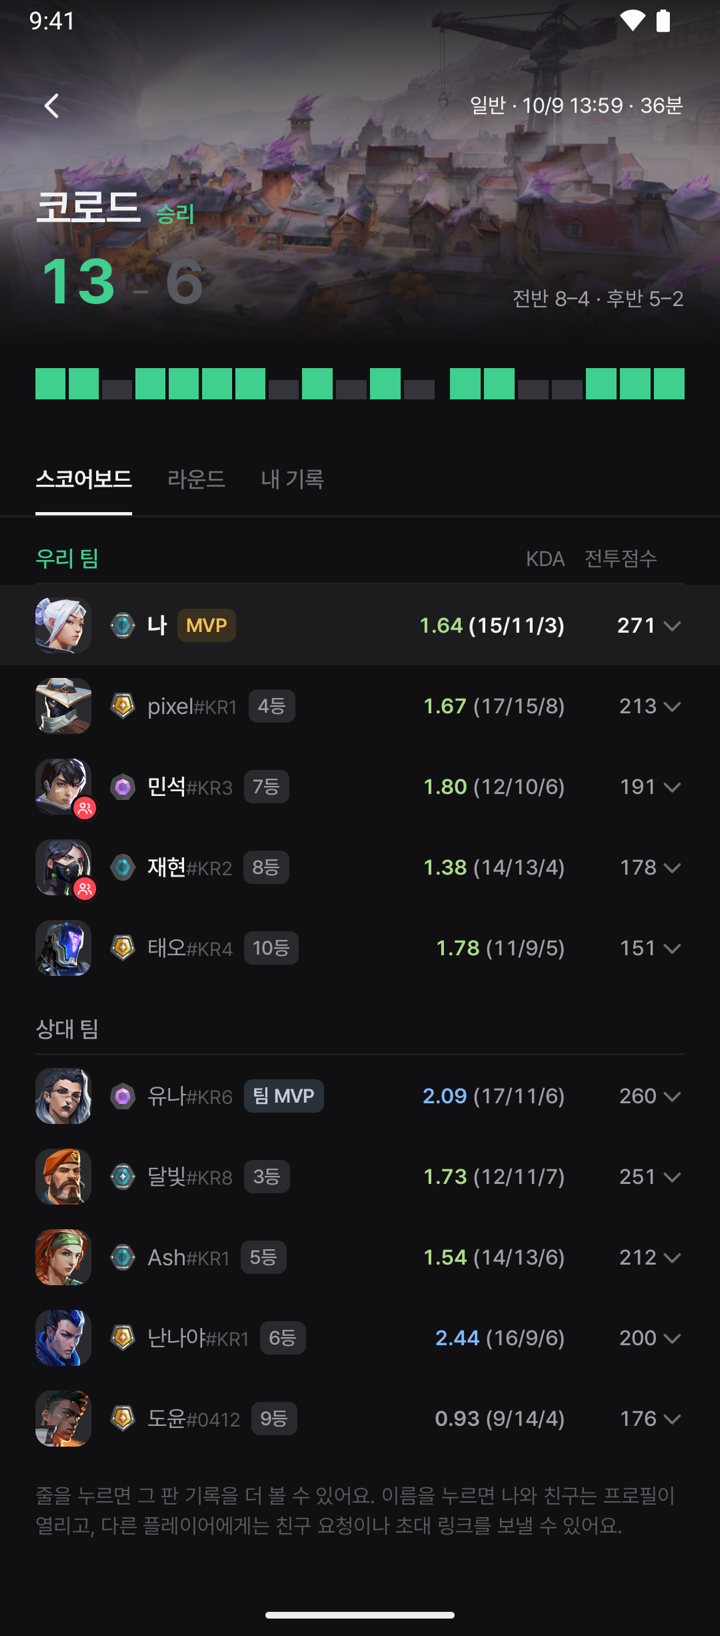
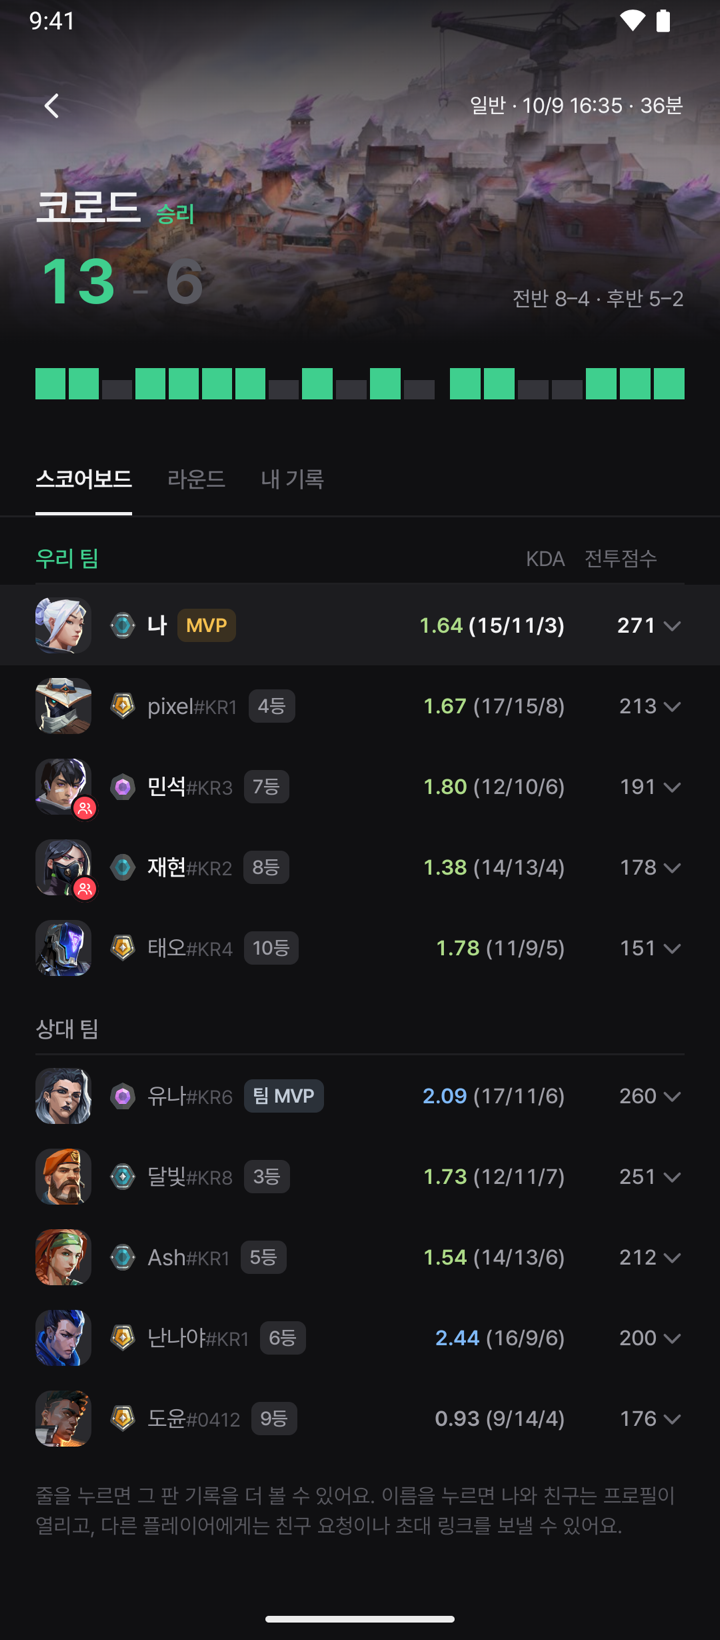
docs: PRD 추가
밖에서 처음 보는 사람이 읽는 제품 문서다. 왜 만드는지, 누가 언제 쓰는지,
화면마다 무엇을 하는지, "달라졌다"를 어떻게 정하는지, 하지 않는 것(Riot
정책), 개인정보, 성공 기준, 범위와 순서, 아직 정하지 못한 것을 적는다.
규칙의 기준은 CLAUDE.md와 screens.md이고 PRD는 그쪽으로 이어 준다.

GitHub에서 바로 읽히게 Markdown으로 쓰고 실제 앱 캡처를 넣었다. 클릭형
프로토타입(docs/prototype)은 GitHub Pages로 연다.

함께 바꾼 캡처: 홈(짚을 점 한 줄 두 칸), 흐름 시트와 라운드 탭(문구 수정),
경기 상세 세 탭과 경기 목록(같은 시각으로 다시 찍음).

diff --git a/docs/PRD.md b/docs/PRD.md
@@ -1,0 +1,226 @@
+# 오발있
+
+발로란트를 하고 나서 "이번 주는 왜 이렇게 안 풀렸지" 싶을 때 여는 앱이다. 최근 경기를 평소의 나와 견줘, 그 주에
+정말로 달라진 것만 짚어 준다.
+
+[클릭형 프로토타입](https://sjunh812.github.io/ovalit/prototype/) · [화면 규칙](screens.md) · [결정 기록](DECISIONS.md)
+
+<p align="center">
+  <img src="prd/hero/home.png" width="200" alt="홈 주간 리포트">
+  <img src="prd/hero/match-detail.png" width="200" alt="경기 상세 스코어보드">
+  <img src="prd/hero/friend-profile.png" width="200" alt="친구 프로필">
+  <img src="prd/hero/friends.png" width="200" alt="친구 탭">
+</p>
+
+| | |
+| --- | --- |
+| 플랫폼 | Android, Google Play 한국 출시 예정. iOS는 같은 코드로 시뮬레이터에서만 돌려 본다 |
+| 지금 상태 | 모든 화면이 가짜 데이터로 동작한다. Riot 프로덕션 키 심사를 기다리는 중이다(2026년 9월 19일 신청) |
+| 데이터 | Riot 공식 API만 쓴다. VAL-MATCH-V1, VAL-CONTENT-V1, VAL-STATUS-V1, 로그인은 RSO |
+| 비용 | 출시 전까지 0원. 서버와 도구는 모두 무료 한도 안에서 돈다 |
+
+이 문서는 2026년 10월 기준이다. 화면마다의 세부 규칙은 [`screens.md`](screens.md), 지표 계산 규칙은 저장소 루트의
+`CLAUDE.md`에 있고, 여기서는 왜 이렇게 만들었는지를 적는다.
+
+## 왜 만드나
+
+전적 사이트는 숫자를 많이 보여 준다. 그런데 "그래서 이번 주에 뭐가 달라졌는데?"에는 답하지 않는다. 지난주보다 헤드샷이
+3%p 내려갔다는 숫자만 봐서는 실력이 떨어진 건지, 오퍼레이터를 많이 들어서 그런 건지, 원래 그 정도는 매주 오르내리는
+건지 알 수 없다.
+
+발로란트는 전적이 기본 비공개다. 롤처럼 아무 닉네임이나 검색해 볼 수 없고, Riot 정책은 비교 기준을 본인의 과거로
+제한한다. 남들 사이에서 몇 등인지, 여러 지표를 섞은 점수 같은 건 만들 수 없다. 그래서 오발있은 남을 찾아보는 앱이 아니라
+나를 따라가는 앱으로 만들었다. 대신 서로 수락한 친구와는 같은 지표를 나란히 놓고 볼 수 있다.
+
+앱 이름은 "오늘 발로란트 할 사람 있어?"를 줄인 말이다. 로고 `ㅇㅂㅇ`도 그 초성이다. 돌아보기 앱에 붙은 이름치고는 놀자는
+말에 가까운데, 혼자 기록만 보는 앱이 아니라 친구와 같이 쓰는 앱이라는 뜻으로 그대로 두었다.
+
+## 누가, 언제 쓰나
+
+주에 경쟁전과 일반전을 몇 판에서 열몇 판 하고, 같이 큐를 도는 친구가 두세 명쯤 있는 사람이다. 프로 지망생보다는 진
+판을 혼자 곱씹는 사람에 가깝다.
+
+> 금요일 밤에 세 판을 내리 지고 앱을 연다. 홈 맨 위에 "피해량이 평소보다 81 올라 이번 액트 최고예요"가 떠 있고,
+> 바로 밑에 그 변화를 끌어올린 팬텀(131 → 233)과 레이즈(127 → 214)가 적혀 있다. 졌어도 내 플레이가 무너진 건
+> 아니었다는 걸 숫자로 확인한다. 달라진 점 칸에서는 첫 교전 승률이 평소보다 7%p 낮다. 칸을 누르니 지난 8주 막대와
+> 계산식이 나온다. 그다음 친구 탭에서 토요일 밤 9시에 같이 할 사람을 부른다.
+
+## 무엇을 하나
+
+### 주간 리포트
+
+<img src="prd/screens/metric-sheet.png" width="240" align="right" alt="피해량 설명 시트">
+
+홈은 한 주를 한 장으로 돌아보는 화면이다. 위에서부터 이렇게 읽힌다.
+
+- 승패 칸 바로 밑에 그 주에 가장 크게 움직인 고정 지표를 한 문장으로 적는다("피해량이 평소보다 81 올라 이번 액트
+  최고예요"). 평소 흔들림 안의 변화는 문장으로 짚지 않는다.
+- 그 밑에 변화를 가장 크게 끌어간 무기와 요원을 붙인다. 실력보다 판 구성이 바뀐 탓이면 "이코 라운드 비중 16% → 31%"처럼
+  그쪽을 먼저 적는다.
+- 피해량, K/D, KDA, 전투점수, 헤드샷 다섯 칸은 매주 같은 자리에 둔다. 매주 다른 숫자만 뜨면 자기 성적이 어떻게 흘러가는지
+  따라갈 수 없다. 숫자 밑에는 "+81 · 평소 131"처럼 변화량과 비교 기준을 붙인다.
+- 달라진 점 카드에는 관여율, 첫 교전 승률, 이코 승률 같은 후보 열한 개 가운데 그 주에 실제로 움직인 것을 세 개에서 다섯
+  개 올린다. 처음에 관심사(에임, 라운드 운영, 기복)를 골랐으면 그 지표가 맨 앞에 온다.
+- 라벨은 전투점수, 피해량, 관여율처럼 한글로 쓴다. 칸을 누르면 정식 명칭(ACS, ADR, KAST)과 계산식, 표본, 지난 8주 막대가
+  시트로 올라온다.
+
+<br clear="right">
+
+### 경기 돌아보기
+
+<img src="prd/hero/matches.png" width="240" align="right" alt="경기 목록">
+
+경기 탭은 날짜별로 묶고 머리에 그날의 승패를 적는다. 경기 상세는 스코어보드, 라운드, 내 기록 세 탭이다. 라운드 탭에서는
+라운드를 하나씩 골라 두 팀의 구매 유형(이코, 포스바이, 풀바이)과 장비, 그 라운드의 내 기록과 킬 순서를 본다. 내 기록
+탭에서는 맞힌 부위와 상대 다섯 명과의 맞대결(잡은 수, 잡힌 수, 주고받은 피해)을 본다.
+
+스코어보드에서 이름을 누르면 친구는 프로필이 열린다. 친구가 아니면 앱을 쓰는 사람에게는 친구 요청을, 안 쓰는 사람에게는
+초대 링크를 보낼 수 있다. 앱을 안 쓰는 사람은 그 경기 안의 기록까지만 보인다.
+
+데스매치나 건틀릿처럼 규칙이 다른 모드는 목록에만 두고 리포트 평균에는 넣지 않는다. 다시 살아나는 모드의 K/D를 경쟁전과
+같은 잣대로 볼 수는 없다.
+
+<br clear="right">
+
+### 친구
+
+<img src="prd/screens/ping-compose.png" width="240" align="right" alt="파티 모집 시트">
+
+친구는 같이 뛴 경기의 스코어보드나 초대 링크로만 맺고, 서로 수락해야 한다. 닉네임 검색은 없다.
+
+- 라이벌을 한 명 고르면 고정 다섯 칸을 매주 겨룬다.
+- 친구 비교는 지표 하나를 골라 친구들 사이에서만 줄을 세운다. 친구가 많으면 위 다섯 줄과 내 줄만 두고 나머지는 전체 순위
+  화면에서 본다.
+- 친구 프로필은 남의 전적 페이지가 아니라 나와의 관계 페이지다. 맨 위에 같이 뛴 경기("6경기 4승 2패")가 있고, 이번 주
+  지표를 나와 나란히 놓는다.
+- "오발있?" 카드에서 친구를 네 명까지 시각을 정해 부른다. 받은 사람은 갈게요, 다른 시간, 못 가요 가운데 하나로 답하고,
+  알림 버튼으로 앱을 열지 않고도 답할 수 있다. 글을 적는 칸은 없다.
+
+<br clear="right">
+
+### 내 기록
+
+내 프로필에는 이번 액트 티어, 통계, 맞힌 부위, 요원, 무기가 있다. 무기 화면은 계열별로 묶고 이번 주 위쪽 세 무기를 평소와
+견주고, 요원 화면은 많이 한 순서대로 승률과 KDA를 보여 준다.
+
+## "달라졌다"를 정하는 법
+
+매주 조금씩 흔들리는 숫자와 정말로 달라진 숫자를 가르는 게 이 앱에서 가장 공들인 부분이다. 흔들림까지 다 짚으면 매주
+경고가 뜨고, 얼마 지나면 아무도 읽지 않는다.
+
+| 무엇 | 어떻게 |
+| --- | --- |
+| 비교 기준 | 집계 기간 바로 앞 4주의 평균. 같은 액트 안에서만 센다. 액트마다 랭크가 초기화되고 매칭이 달라진다 |
+| 움직였다 | 이번 값과 평균의 차이가 지난 8주 주간 값의 표준편차보다 1.5배 넘게 클 때. 그런 주가 4주 이상 있어야 판단한다 |
+| 표본 | 지표마다 최소 표본이 있다. 관여율과 생존율은 40라운드, 첫 킬 승률은 첫 킬 10번, 이코 승률은 이코 라운드 15번 |
+| 기간 | 이번 주를 먼저 보고, 다섯 경기가 안 되면 한 주씩 넓혀 4주까지 본다. 넓혔으면 카드에 기간을 적는다 |
+| 역할 | 같은 첫 교전 관여율 12%도 전략가면 정상이고 타격대면 문제다. 그 주에 가장 많이 한 역할에 따라 앞세울 지표가 달라진다 |
+
+계산에서는 몇 가지를 꼭 지킨다.
+
+- 경기마다 비율을 낸 뒤 평균하지 않고, 총량을 모두 더한 뒤에 나눈다. 13대2로 끝난 판과 13대11까지 간 판이 같은 무게로
+  섞이면 안 된다.
+- 분모가 0이면 칸을 비운다. 0%로 채우면 틀린 숫자가 된다.
+- 변화량은 화면에 보이는 자릿수끼리 뺀다. 74%와 69%를 나란히 띄워 놓고 +6이라고 적으면 틀려 보인다.
+- 튕겨서 못 뛴 라운드는 세지 않는다. 세이지 부활로 한 라운드에 두 번 죽으면 데스는 2다.
+
+1.5배와 최소 표본은 공식 기준이 없어서 정한 시작값이다. 실데이터가 들어오면 다시 맞춘다.
+
+## 하지 않는 것
+
+Riot의 프로덕션 키 승인 조건이자, 이 앱이 전적 검색 앱이 되지 않게 막는 선이다.
+
+| 하지 않는 것 | 까닭 |
+| --- | --- |
+| 여러 지표를 섞은 종합 점수 | MMR을 대신하는 점수로 읽힌다 |
+| "상위 n%" 같은 분포 속 등수 | 같은 까닭이다. 비교는 본인의 과거와, 서로 수락한 친구끼리만 한다 |
+| 닉네임 검색 | 발로란트 전적은 기본 비공개다. 친구는 같이 뛴 경기나 초대 링크로만 맺는다 |
+| 스카우팅, 상점 조회, 인게임 오버레이, 닉변 이력 | Riot이 승인하지 않는 용도다 |
+| "밴달 쓰세요" 같은 결정 대행 | 사실만 적고 고르는 건 플레이어 몫으로 둔다. "추천"이라는 말도 쓰지 않는다 |
+| 앱을 안 쓰는 사람의 다른 경기, 통산 승률, 티어 추이 | 내가 같이 뛴 경기 안의 기록까지만 보여 준다 |
+
+## 개인정보와 공개 범위
+
+- 로그인은 Riot 공식 로그인(RSO)을 Chrome Custom Tabs로 띄운다. 앱은 비밀번호를 만지지 않고, 인가 코드는 서버가 바꿔 앱은
+  우리 서버의 세션 토큰만 든다.
+- 연동 동의 화면에서 친구에게 전적이 공개된다는 걸 먼저 알린다. 전적 공개는 설정에서 끌 수 있고, 서버가 이 값을 보고
+  친구에게 경기를 내준다.
+- 내가 안 뛴 친구 경기를 내려줄 때는 친구와 나 말고 모두 가린다. 가린 사람의 줄에는 남겨도 되는 필드만 둔다.
+- 연동을 해제하면 저장된 경기와 리포트, 쌓인 사용 통계를 지운다.
+- 사용 통계와 비정상 종료 보고에는 Riot이 준 값(PUUID, 닉네임, 지표)을 넣지 않는다.
+
+## 성공 기준
+
+출시 뒤 4주 동안 첫 값을 보고 목표치를 정한다. 지금 정해 둔 건 무엇을 볼지다. 모두 앱이 이미 보내는 사용 통계로 잴 수 있다.
+
+| 무엇을 보나 | 왜 | 재는 법 |
+| --- | --- | --- |
+| 연동을 시작한 사람 중 첫 수집까지 마친 비율 | 첫 리포트를 못 보면 앱의 가치를 볼 일도 없다 | 동의 화면 `screen_view` 대비 `tutorial_complete` |
+| 홈을 한 주에 이틀 넘게 연 사람의 비율 | 주간 리포트가 습관이 됐는지 본다 | `screen_view`(`report`) |
+| 연동 4주 안에 친구를 한 명 이상 맺은 비율 | 라이벌, 친구 비교, 파티 모집이 모두 친구에서 시작한다 | `friend_request`(`accept`), `share` |
+| 파티 모집에 답한 비율 | 친구 기능이 실제로 같이 하는 데 쓰이는지 본다 | `ping_send`의 `friend_count` 대비 `ping_reply` |
+
+함께 지켜볼 것은 비정상 종료 없이 끝난 세션 비율(Crashlytics), 서버가 Riot에서 받은 429 수와 D1 하루 쓰기 양이다. 레이트
+리밋과 무료 한도는 사용자 한 사람이 아니라 앱 전체에 걸린다.
+
+## 범위와 순서
+
+### 지금 된 것
+
+모든 화면이 가짜 데이터로 돌아간다. 서버(Cloudflare Worker)는 로그인, 친구, 파티 모집을 맡고, Riot 요청을 대신 보내면서
+남의 기록을 가린다. Riot 경기 응답을 앱 모델로 옮기는 코드는 문서의 스키마로 먼저 만들어 두었다. 테스트는 앱 쪽 1,300여
+개와 서버 250개이고 GitHub Actions에서 돈다.
+
+### Riot 승인 뒤
+
+1. RSO 클라이언트를 받아 로그인을 붙인다.
+2. 경기 받기 저장소에서 가짜 서버와 메모리 저장만 실제 서버와 기기 DB로 바꾼다. 받기 규칙과 테스트는 그대로 쓴다.
+3. 실제 응답으로 짐작해 둔 것들을 확인한다(아래 "아직 정하지 못한 것").
+4. Play 내부 테스트를 거쳐 출시한다.
+
+### 수익
+
+모든 기능은 무료다. 광고는 Riot 개발자 포털에서 제품이 승인된 뒤, 제품 설명에 광고를 적고 나서 붙인다.
+
+## 기술 구성
+
+```mermaid
+flowchart LR
+    App["Android 앱<br/>Compose Multiplatform"] -- "세션 토큰" --> Worker["우리 서버<br/>Cloudflare Worker · D1"]
+    App -- "Custom Tabs" --> RSO["Riot 로그인<br/>RSO"]
+    RSO -- "인가 코드" --> Worker
+    Worker -- "API 키" --> Riot["Riot API<br/>MATCH · CONTENT · STATUS"]
+    Worker -- "종류 · 이름 · 시각만" --> FCM["Firebase Cloud Messaging"]
+    FCM --> App
+```
+
+- 앱은 Kotlin Multiplatform과 Compose Multiplatform으로 쓰고 Android로 출시한다. 같은 코드가 iOS 시뮬레이터에서도 돈다.
+- Riot API 키와 RSO 비밀값은 서버에만 있다. 끝난 경기는 결과가 바뀌지 않으니 한 번 받으면 다시 요청하지 않는다. Riot 레이트
+  리밋은 앱 전체가 나눠 쓰기 때문이다.
+- 서버, 푸시, 사용 통계, CI 모두 무료 한도 안에서 돈다. 출시 전에 드는 돈은 Google Play 개발자 등록비 25달러 하나다.
+
+## 아직 정하지 못한 것
+
+- 전투점수 칸을 그대로 둘지. 13.06 패치(2026년 9월 22일)부터 게임 스코어보드는 ACS 대신 Performance Score를 띄운다. 실제
+  경기 응답에 무엇이 오는지 보고 정한다.
+- 실데이터로 확인할 것들. 라운드 번호가 0부터인지 1부터인지, 항복한 라운드가 어떻게 오는지, 맵 ID가 UUID인지 경로인지,
+  2~3라운드로 끝난 리메이크를 경기로 셀지.
+- 1.5배, 최소 표본, 트레이드 5초 같은 시작 기준선. 실데이터의 분포를 보고 다시 맞춘다.
+- 친구 비교 숫자를 어디서 셀지. 친구 경기를 모두 받으면 레이트 리밋을 친구 수만큼 나눠 쓰게 되어서, 각자 앱이 올린 주간
+  요약으로 세는 쪽으로 계획만 세워 두었다.
+
+## 더 보기
+
+| 문서 | 내용 |
+| --- | --- |
+| [`screens.md`](screens.md) | 화면마다 무엇을 어디에 두는지 |
+| [`design.md`](design.md) | 색, 글자, 면, 움직임 |
+| [`backend.md`](backend.md) | 서버 규칙 |
+| [`DECISIONS.md`](DECISIONS.md) | 기획과 달라진 결정, 날짜와 까닭 |
+| [`CONVENTIONS.md`](CONVENTIONS.md) | 글, 커밋, 테스트, 빌드 규칙 |
+
+---
+
+<sub>화면은 모두 가짜 데이터다. Ovalit isn't endorsed by Riot Games and doesn't reflect the views or opinions of Riot Games or
+anyone officially involved in producing or managing Riot Games properties. Riot Games, and all associated properties are
+trademarks or registered trademarks of Riot Games, Inc.</sub>

diff --git a/CLAUDE.md b/CLAUDE.md
@@ -14,6 +14,7 @@
 | `docs/i18n-ja.md` | 일본어 용어와 말투 |
 | `docs/RELEASE.md` | 출시 전에 채울 값과 순서 |
 | `server/README.md` | 서버 실행과 배포 |
+| `docs/PRD.md` | 밖에서 읽는 제품 소개. 규칙은 위 문서가 기준이고 여기는 까닭과 범위만 둔다 |
 
 기획과 화면 목업은 저장소 밖 claude.ai 아티팩트에 있다. 프로덕션 키 심사에 낸 원본이라 고치지 않는다.
 
